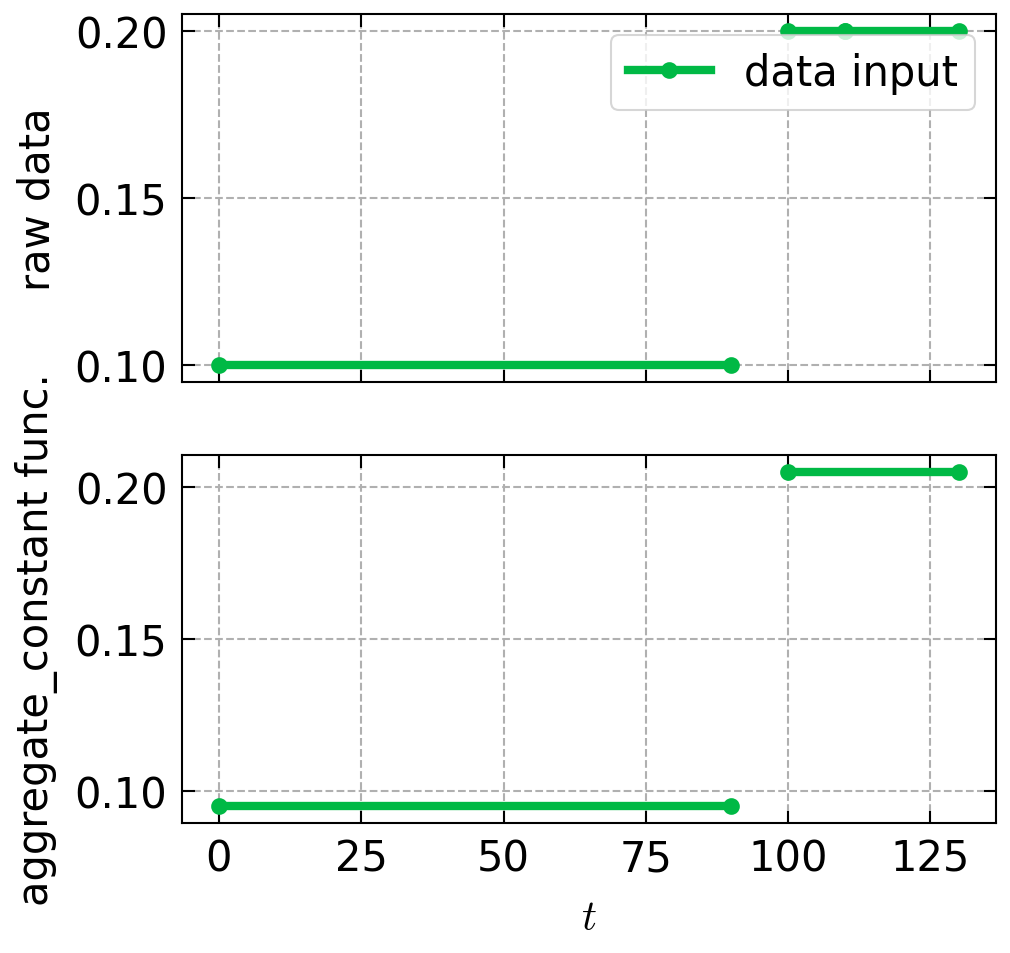
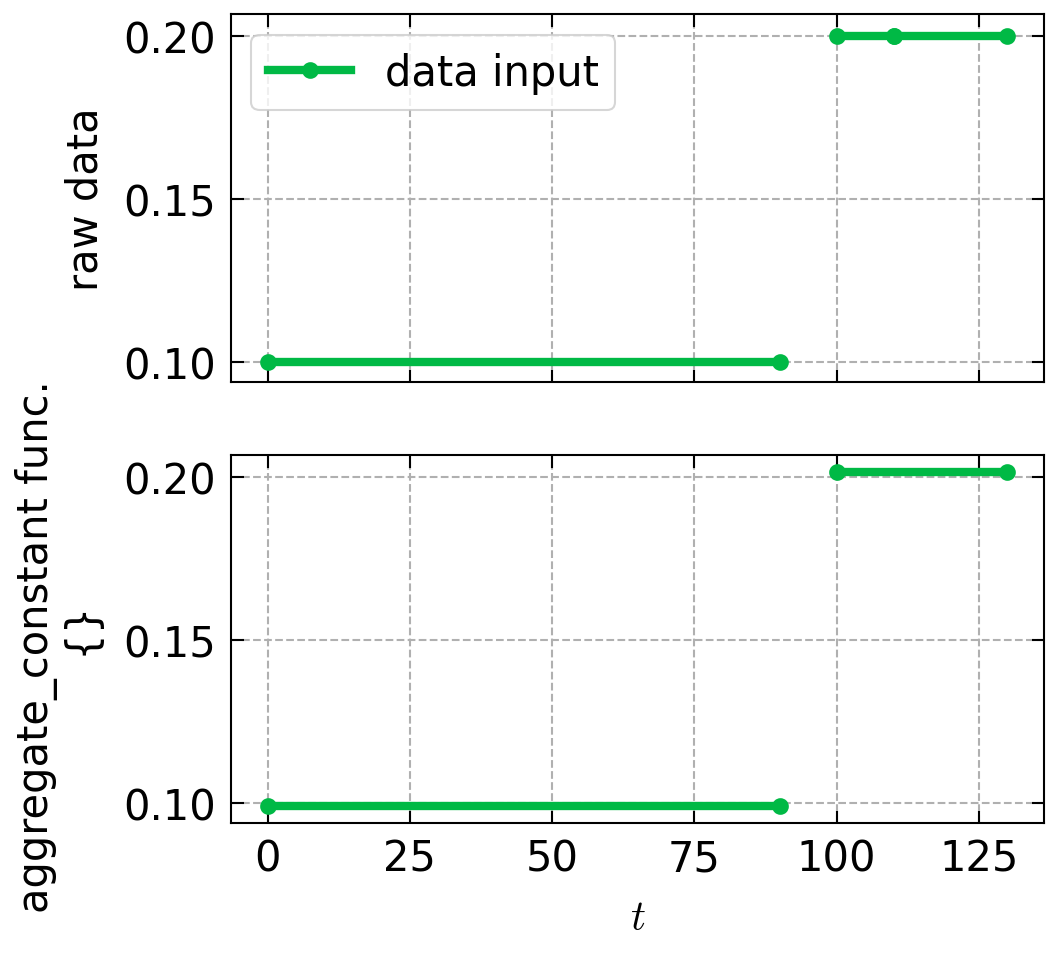
[DEV] adding aggregation on target segmentation

diff --git a/examples/illustration.py b/examples/illustration.py
@@ -9,7 +9,7 @@ import numpy as np
 import pandas as pd
 
 from crep import merge, unbalanced_merge, unbalanced_concat, aggregate_constant
-from crep import tools
+from crep import tools, base
 
 plt.style.use('./examples/.matplotlibrc')
 
@@ -74,6 +74,7 @@ def illustrate_1_input(
         id_discrete,
         continuous_index,
         data_columns=None,
+        as_string=False
 
 ):
     df = tools.sort(df, id_discrete=id_discrete, id_continuous=continuous_index)
@@ -84,15 +85,18 @@ def illustrate_1_input(
     ret = function(df,
                    id_continuous=continuous_index,
                    id_discrete=id_discrete, **parameters)
-
-    _, axes = plt.subplots(nrows=2, sharex=True)
+    if as_string:
+        ret[data_columns] = ret[data_columns].astype(str)
+    _, axes = plt.subplots(nrows=2, sharex=True, sharey=True)
 
     sel = ret[id_discrete].drop_duplicates().iloc[-1:]
     ret = pd.merge(ret, sel, how="right", on=id_discrete)
     df = pd.merge(df, sel, how="right", on=id_discrete)
 
-    ret = tools.sort(ret, id_discrete=id_discrete, id_continuous=continuous_index)
-    ret[data_columns[0]] = ret[data_columns[0]] + (2 * np.mod(range(len(ret)), 2) - 1) * 0.005
+    ret = ret.sort_values(by=data_columns)
+    ret[ret.select_dtypes(include='number').columns] = ret[ret.select_dtypes(include='number').columns].round(2)
+    if not as_string:
+        ret[data_columns[0]] = ret[data_columns[0]] + (3 * np.mod(range(len(ret)), 3) - 1) * 0.0008
     plt.sca(axes[0])
     plot(df, continuous_index, data_col=data_columns[0], color="C1", legend='data input')
     plt.ylabel("raw data")
@@ -100,7 +104,10 @@ def illustrate_1_input(
     plt.sca(axes[1])
     plot(ret, continuous_index, data_col=data_columns[0], color="C1")
     plt.xlabel("$t$")
-    plt.ylabel(f"{function.__name__} func.")
+    y_label = f"{function.__name__} func."
+    if len(str(parameters)) < 20:
+        y_label += f" \n {parameters}"
+    plt.ylabel(y_label)
     plt.savefig(f"examples/{function.__name__}.png")
 
 
@@ -147,4 +154,36 @@ illustrate_1_input(function=aggregate_constant,
                    id_discrete=["id", "id2"],
                    continuous_index=["t1", "t2"],
                    data_columns=["data1"]
+                   )
+
+illustrate_1_input(function=aggregate_constant,
+                   df=pd.read_csv("data/advanced_left.csv"),
+                   parameters=dict(),
+                   id_discrete=["id", "id2"],
+                   continuous_index=["t1", "t2"],
+                   data_columns=["data1"]
+                   )
+df = pd.read_csv("data/base_right.csv")
+df.loc[6] = [2.0, 170, 180, 0.5]
+illustrate_1_input(function=tools.create_continuity,
+                   df=df,
+                   parameters=dict(limit=30),
+                   id_discrete=["id"],
+                   continuous_index=["t1", "t2"],
+                   data_columns=["data2"],
+                   as_string=True
+                   )
+
+df = pd.read_csv("data/base_right.csv")
+df_seg = base.segmentation_regular(df, id_discrete=["id"],
+                                   id_continuous=["t1", "t2"],
+                                   length_target=7,
+                                   length_gap_filling=30)
+illustrate_1_input(function=base.aggregate,
+                   df=df,
+                   parameters=dict(df_target_segmentation=df_seg),
+                   id_discrete=["id"],
+                   continuous_index=["t1", "t2"],
+                   data_columns=["data2"],
+                   as_string=False
                    )

diff --git a/crep/base.py b/crep/base.py
@@ -1268,3 +1268,93 @@ def homogenize_between(
     )
 
     return df1, df2
+
+
+def aggregate(
+        df: pd.DataFrame,
+        df_target_segmentation: pd.DataFrame,
+        id_discrete: list[Any],
+        id_continuous: [Any, Any],
+        method="weighted_mean"
+
+) -> pd.DataFrame:
+    df_target_segmentation = df_target_segmentation.__deepcopy__()
+    df_target_segmentation["index"] = range(len(df_target_segmentation))
+    ret = merge(df, df_target_segmentation, id_continuous=id_continuous, id_discrete=id_discrete,
+                how="outer")
+    ret = ret.infer_objects()
+    ret["__length__"] = ret[id_continuous[1]] - ret[id_continuous[0]]
+    df_ret = df_target_segmentation[["index"]].set_index("index")
+
+    column_number = df.drop(columns=[*id_discrete, *id_continuous]).select_dtypes(include='number').columns
+
+    for col in column_number:
+        ret[col] = ret[col] * ret["__length__"]
+        length = ret.dropna(subset=[col]).groupby("index")["__length__"].sum()
+        df_ret[col] = ret.groupby("index")[col].sum() / length
+
+    column_data = list(column_number)
+    df_data = df_ret[column_data]
+    df_data = pd.merge(df_data.reset_index(), df_target_segmentation, on="index")
+    df_data = df_data.drop(columns="index")
+    df_data = df_data[df.columns]
+    df_data = df_data.astype(df.dtypes)
+    return df_data
+
+
+def segmentation_irregular(
+        df: pd.DataFrame,
+        id_discrete: list[Any],
+        id_continuous: [Any, Any],
+        length_target,
+        length_minimal,
+) -> pd.DataFrame:
+    return df
+
+
+def segmentation_regular(
+        df: pd.DataFrame,
+        id_discrete: list[Any],
+        id_continuous: [Any, Any],
+        length_target,
+        length_gap_filling,
+) -> pd.DataFrame:
+    data = tools.create_continuity(
+        df.__deepcopy__(),
+        id_discrete=id_discrete,
+        id_continuous=id_continuous,
+        limit=length_gap_filling)
+    indexes = [*id_continuous, *id_discrete]
+
+    df_disc_f = data.groupby(id_discrete)[id_continuous[1]].max().reset_index()
+    df_disc_d = data.groupby(id_discrete)[id_continuous[0]].min().reset_index()
+    df_disc = pd.merge(df_disc_d, df_disc_f, on=id_discrete)
+    df_disc["nb_coupon"] = np.round((df_disc[id_continuous[1]] - df_disc[id_continuous[0]]) / length_target).astype(int)
+    df_disc["nb_coupon_cumsum"] = df_disc["nb_coupon"].cumsum()
+    df_disc["nb_coupon_cumsum0"] = 0
+    df_disc.loc[df_disc.index[1:], "nb_coupon_cumsum0"] = df_disc["nb_coupon_cumsum"].values[:-1]
+
+    # Create empty regular segment table and we fill it with regular segment
+    df_new = pd.DataFrame(index=range(df_disc["nb_coupon"].sum()),
+                          columns=id_discrete)
+
+    accumulator = {k: [] for k in indexes}
+
+    for ix in df_disc.index:
+        nb_cs = df_disc.loc[ix].to_dict()
+        value_temp = np.linspace(
+            nb_cs[id_continuous[0]],
+            nb_cs[id_continuous[1]],
+            num=int(nb_cs["nb_coupon"] + 1), dtype=int)
+
+        accumulator[id_continuous[0]] += list(value_temp[:-1])
+        accumulator[id_continuous[1]] += list(value_temp[1:])
+        for idd in id_discrete:
+            accumulator[idd] += list(np.array([nb_cs[idd]] * len(value_temp[1:])))
+
+    for index in indexes:
+        df_new[index] = accumulator[index]
+
+    df_new.index = range(len(df_new))
+
+    return df_new

diff --git a/crep/tools.py b/crep/tools.py
@@ -181,7 +181,8 @@ def create_continuity(
         df: pd.DataFrame,
         id_discrete: Iterable[Any],
         id_continuous: [Any, Any],
-        limit=None, sort=False
+        limit=None,
+        sort=False
 ) -> pd.DataFrame:
     df_in = df.__deepcopy__()
     col_save = np.array(df_in.columns)
@@ -587,32 +588,6 @@ def clusterize(
             ["__cumul__", "__new_seg__", "__n_cut__", "__target__", "__%_a__", "__%_b__", "__%_min__"],
             axis=1)
         return df["__lim__"]
-
-
-def fill_duplicates_na(df, id_discrete: list[Any], id_continuous: [Any, Any]):
-    """ Fills duplicated rows with NaN by the value of the other duplicated row """
-    df = df.copy()
-    df = create_zones(df=df, id_discrete=id_discrete, id_continuous=id_continuous)
-    df = df.sort_values(by="__zone__").reset_index(drop=True)
-
-    mask0 = df["__zone__"].diff(-1) == 0
-    if mask0.sum() == 0:
-        raise Exception("The dataframe does not contain duplicated rows.")
-    mask = df.loc[mask0, :].isna().values
-    temp_df = df.loc[mask0, :].copy()
-    temp_df_shift = df.shift(-1).loc[mask0, :]
-    temp_df.loc[mask] = temp_df_shift.loc[mask]
-    df.loc[mask0, :] = temp_df
-
-    mask0 = df["__zone__"].diff(1) == 0
-    mask = df.loc[mask0, :].isna().values
-    temp_df = df.loc[mask0, :].copy()
-    temp_df_shift = df.shift(1).loc[mask0, :]
-    temp_df.loc[mask] = temp_df_shift.loc[mask]
-    df.loc[mask0, :] = temp_df
-
-    df = df.drop("__zone__", axis=1)
-    return df
 
 
 def sort(df: pd.DataFrame, id_discrete: list[Any], id_continuous: [Any, Any]) -> pd.DataFrame:

diff --git a/test/test_base.py b/test/test_base.py
@@ -281,12 +281,49 @@ def test_split_segment():
         df=df,
         id_discrete=["discr1", "discr2"],
         id_continuous=["cont1", "cont2"],
-        target_size=50
+        target_size=50, verbose=True
     )
     assert \
         ((df_test["cont1"].to_list() == [50, 100, 40, 75, 120, 165, 210, 255, 300, 340, 50, 90, 143, 197, 250])
          & (df_test["cont2"].to_list() == [100, 150, 75, 120, 165, 210, 255, 300, 340, 380, 90, 143, 197, 250, 310])), \
         "\n" + str(df_test)
+
+
+def test_segmentation_regular(get_examples):
+    df_left, df_right = get_examples
+    id_continuous = ["t1", "t2"]
+    df = df_right
+    length_target = 7
+    length_minimal = 30
+    id_discrete = ["id"]
+    ret = base.segmentation_regular(
+        df,
+        id_discrete,
+        id_continuous,
+        length_target,
+        length_minimal,
+    )
+    length = ret["t2"] - ret["t1"]
+    assert np.abs(length.mean() - length_target).std() < 0.01
+
+
+def test_aggregate(get_examples):
+    df_left, df_right = get_examples
+    id_continuous = ["t1", "t2"]
+    df = df_right
+    length_target = 7
+    length_minimal = 30
+    id_discrete = ["id"]
+    df_target_segmentation = base.segmentation_regular(
+        df,
+        id_discrete,
+        id_continuous,
+        length_target,
+        length_minimal,
+    )
+    ret = base.aggregate(df, df_target_segmentation,
+                         id_discrete=id_discrete,
+                         id_continuous=id_continuous)
 
 
 def test_homogenize_within_case1():

diff --git a/test/test_tools.py b/test/test_tools.py
@@ -210,3 +210,8 @@ def test_name_simplifier():
     assert (new_names == ['discr1', 'discr2', 'cont1', 'cont2', 'max_date', 'mean_length', 'min_depth', 'sum_benefits',
                           'max_costs', 'mean_age']
             ), new_names
+
+
+def test_sort(get_examples):
+    df = tools.sort(get_examples[0], id_discrete=["id"], id_continuous=id_continuous)
+    assert all(np.sort(get_examples[0]["id"]) == df["id"].values)
